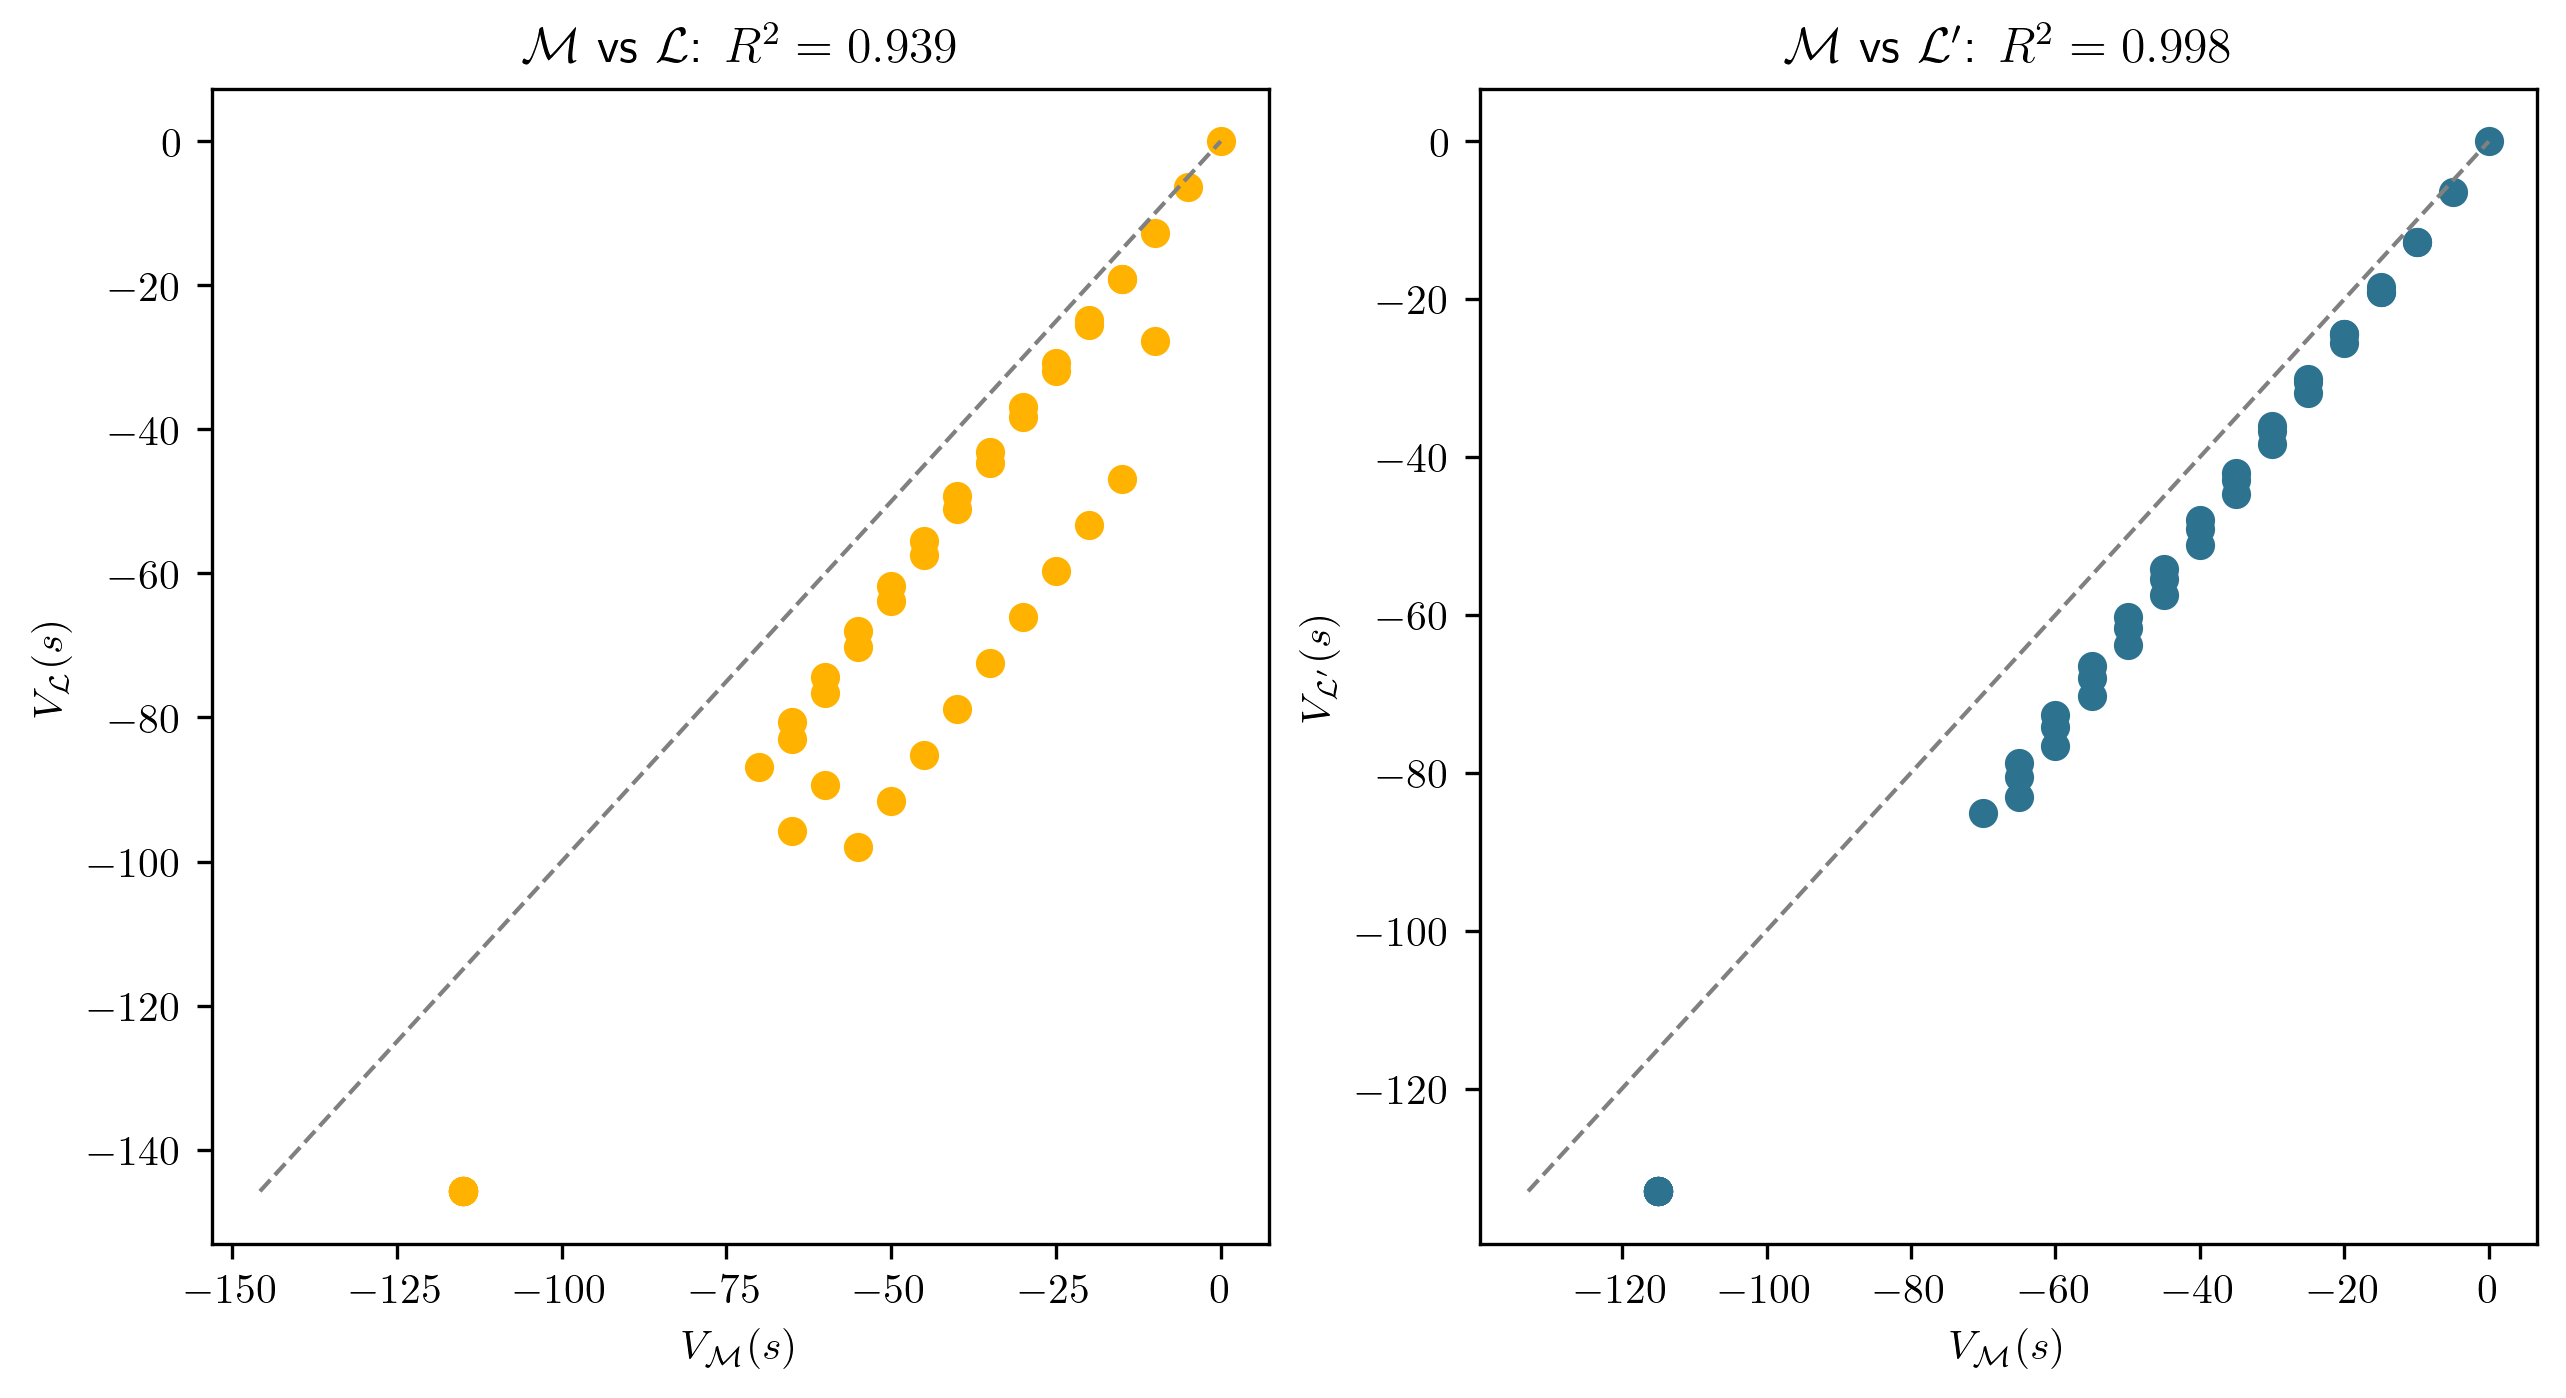
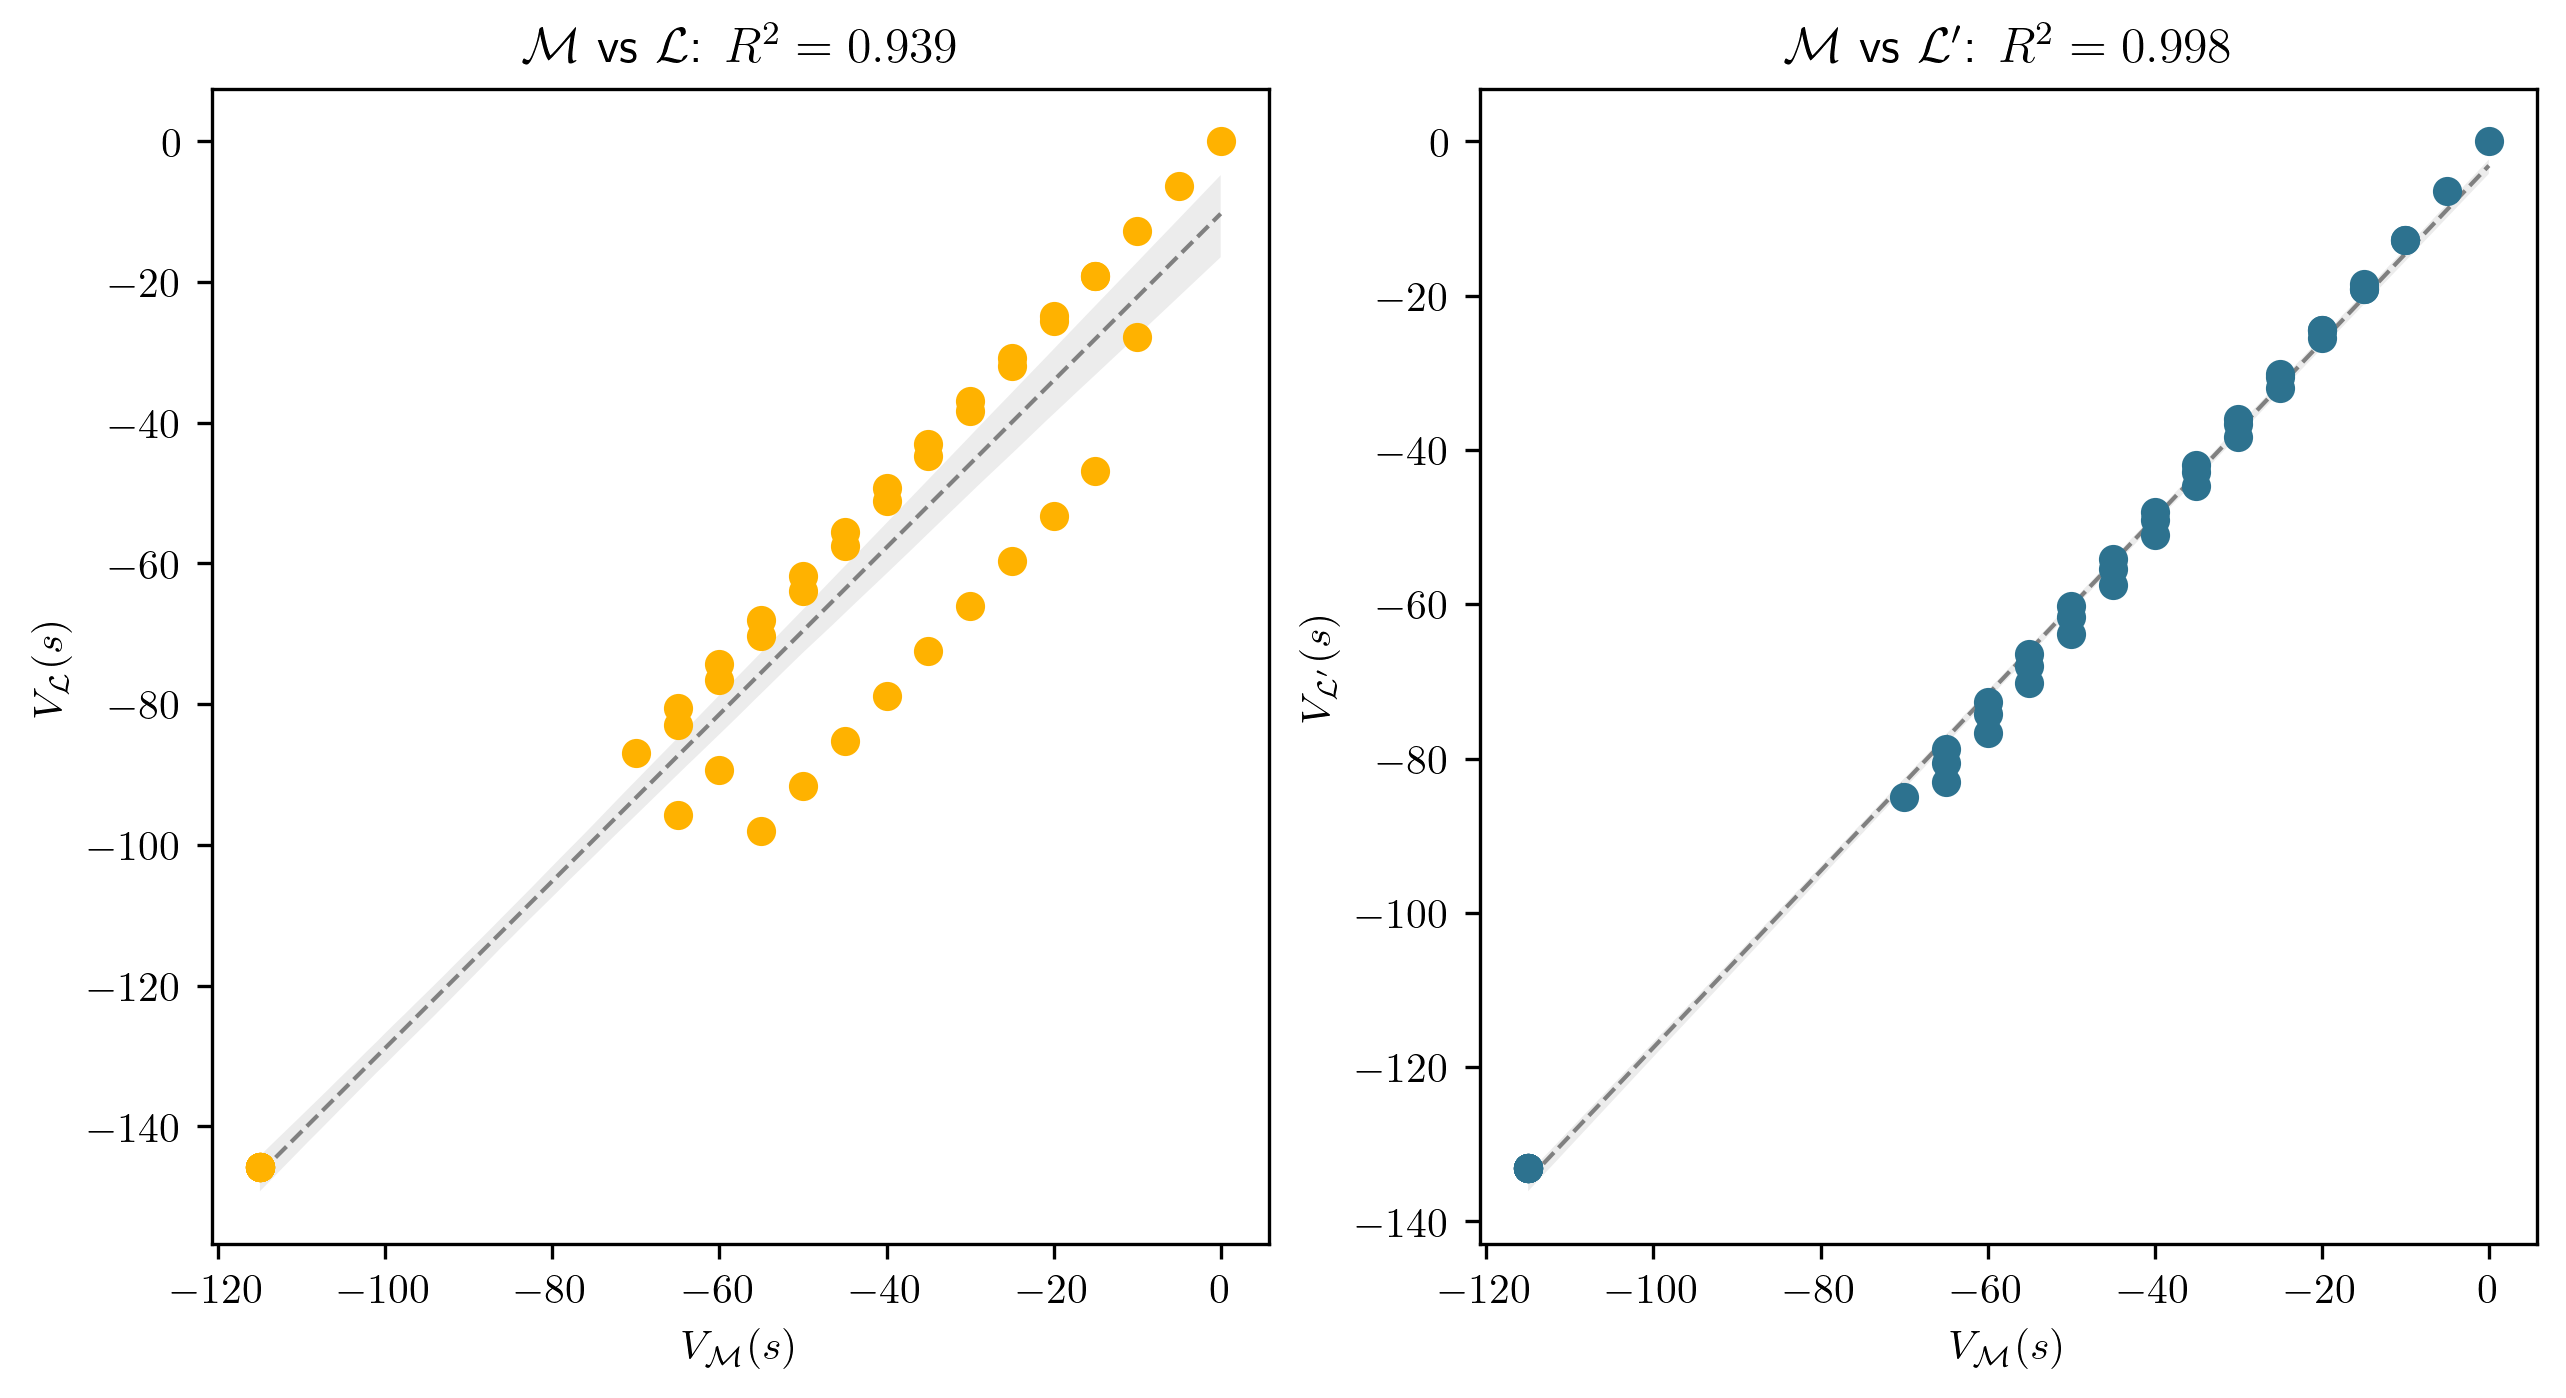
Modified correlation plot

diff --git a/utils/utils.py b/utils/utils.py
@@ -265,18 +265,17 @@ def lmdp_tdr_advantage():
 
     
     fig, axes = plt.subplots(ncols=2, figsize=(10, 5))
-    axes[0].scatter(mdp.V, lmdp.V, color=lmdp_color)
-    min_val = min(min(mdp.V), min(lmdp.V))
-    max_val = max(max(mdp.V), max(lmdp.V))
-    axes[0].plot([min_val, max_val], [min_val, max_val], color="gray", lw=1, linestyle='--')
+    
+    sns.regplot(x=mdp.V, y=lmdp.V, ax=axes[0], scatter=False, line_kws={"color": "gray", "lw": 1, "linestyle": "--"})
+    axes[0].scatter(mdp.V, lmdp.V, color=lmdp_color, zorder=3)
     axes[0].set_title(f"$\mathcal{{M}}$ vs $\mathcal{{L}}$: $R^2 = {r_squared_lmdp_mdp:.3f}$")
     axes[0].set_xlabel("$V_{\mathcal{M}}(s)$")
     axes[0].set_ylabel("$V_{\mathcal{L}}(s)$")
     
-    axes[1].scatter(mdp.V, lmdp_tdr.V, color=lmdp_tdr_color)
-    min_val = min(min(mdp.V), min(lmdp_tdr.V))
-    max_val = max(max(mdp.V), max(lmdp_tdr.V))
-    axes[1].plot([min_val, max_val], [min_val, max_val], color="gray", lw=1, linestyle='--')
+    
+    sns.regplot(x=mdp.V, y=lmdp_tdr.V, ax=axes[1], scatter=False, line_kws={"color": "gray", "lw": 1, "linestyle": "--"})
+    axes[1].scatter(mdp.V, lmdp_tdr.V, color=lmdp_tdr_color, zorder=3)
+    
     axes[1].set_title(f"$\mathcal{{M}}$ vs $\mathcal{{L'}}$: $R^2 = {r_squared_lmdp_tdr_mdp:.3f}$")
     axes[1].set_xlabel("$V_{\mathcal{M}}(s)$")
     axes[1].set_ylabel("$V_{\mathcal{L\'}}(s)$")
